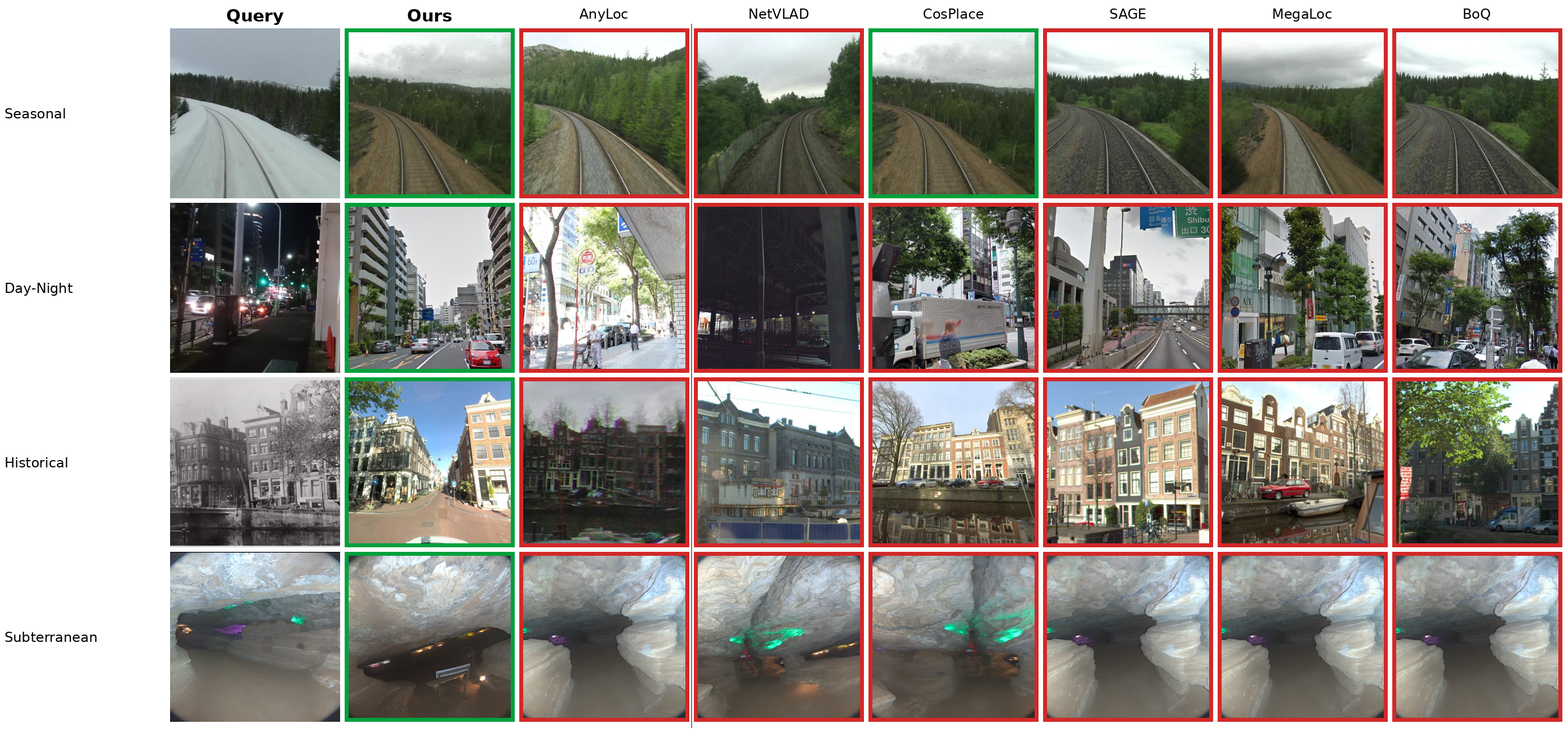
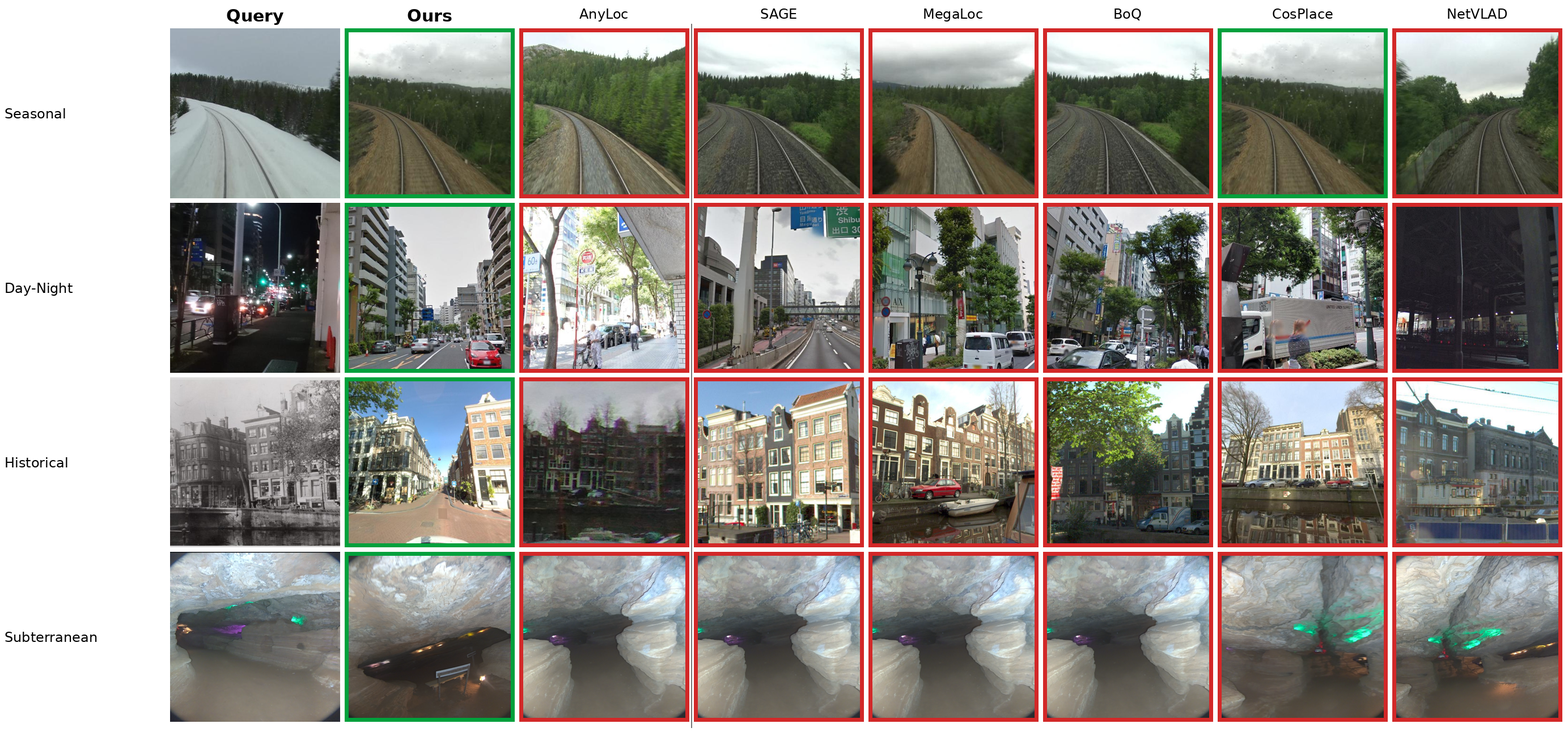
qualitative figure: trained columns ordered newest to oldest

diff --git a/sections/04_exp_setup.tex b/sections/04_exp_setup.tex
@@ -117,7 +117,7 @@ Ours\,\emph{v3}$^{\dagger}$ & 2048 & 93.7 & \textbf{98.4} & \textbf{96.6} & \tex
 \begin{figure}[tp]
 \centering
 \includegraphics[width=\textwidth]{figures/fig_qualitative.png}
-\caption{Rank-1 retrievals on four benchmarks, each method at its own single stage. A green border marks a correct rank-1 and a red one an incorrect one; training-free methods are left of the line; right of it, two classic trained methods (NetVLAD, CosPlace) and the three strongest recent ones. Each query is chosen automatically among those our pipeline retrieves correctly as the one whose correct image sits furthest down the rankings of the recent trained methods.}
+\caption{Rank-1 retrievals on four benchmarks, each method at its own single stage. A green border marks a correct rank-1 and a red one an incorrect one; training-free methods are left of the line; right of it, trained methods from newest to oldest: SAGE, MegaLoc, BoQ, CosPlace and NetVLAD. Each query is chosen automatically among those our pipeline retrieves correctly as the one whose correct image sits furthest down the rankings of the recent trained methods.}
 \label{fig:qual}
 \end{figure}
 
